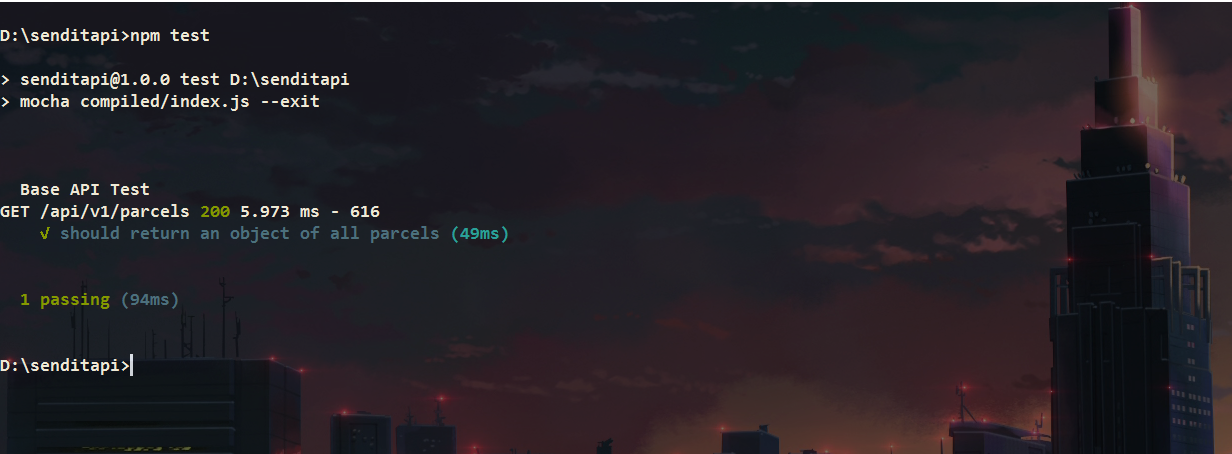
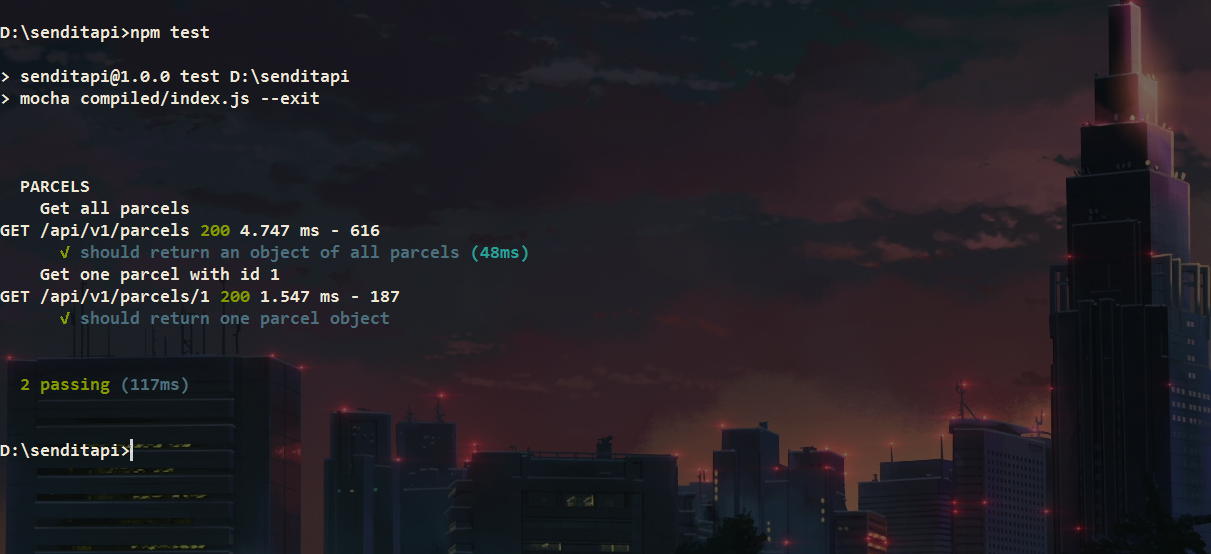
test for a parcel with id 1, it passed

diff --git a/test/test.js b/test/test.js
@@ -5,11 +5,24 @@ import app from '../src/server';
 chai.use(chaiHttp);
 
 describe('PARCELS', () => {
-  describe('All parcels', () => {
+  describe('Get all parcels', () => {
     it('should return an object of all parcels', (done) => {
       chai
         .request(app)
         .get('/api/v1/parcels')
+        .end((err, res) => {
+          chai.expect(res.statusCode).to.be.equal(200);
+          chai.expect(res.body).to.be.a('object');
+          done();
+        });
+    });
+  });
+  describe('Get one parcel with id 1', () => {
+    it('should return one parcel object', (done) => {
+      const id = 1;
+      chai
+        .request(app)
+        .get(`/api/v1/parcels/${id}`)
         .end((err, res) => {
           chai.expect(res.statusCode).to.be.equal(200);
           chai.expect(res.body).to.be.a('object');
